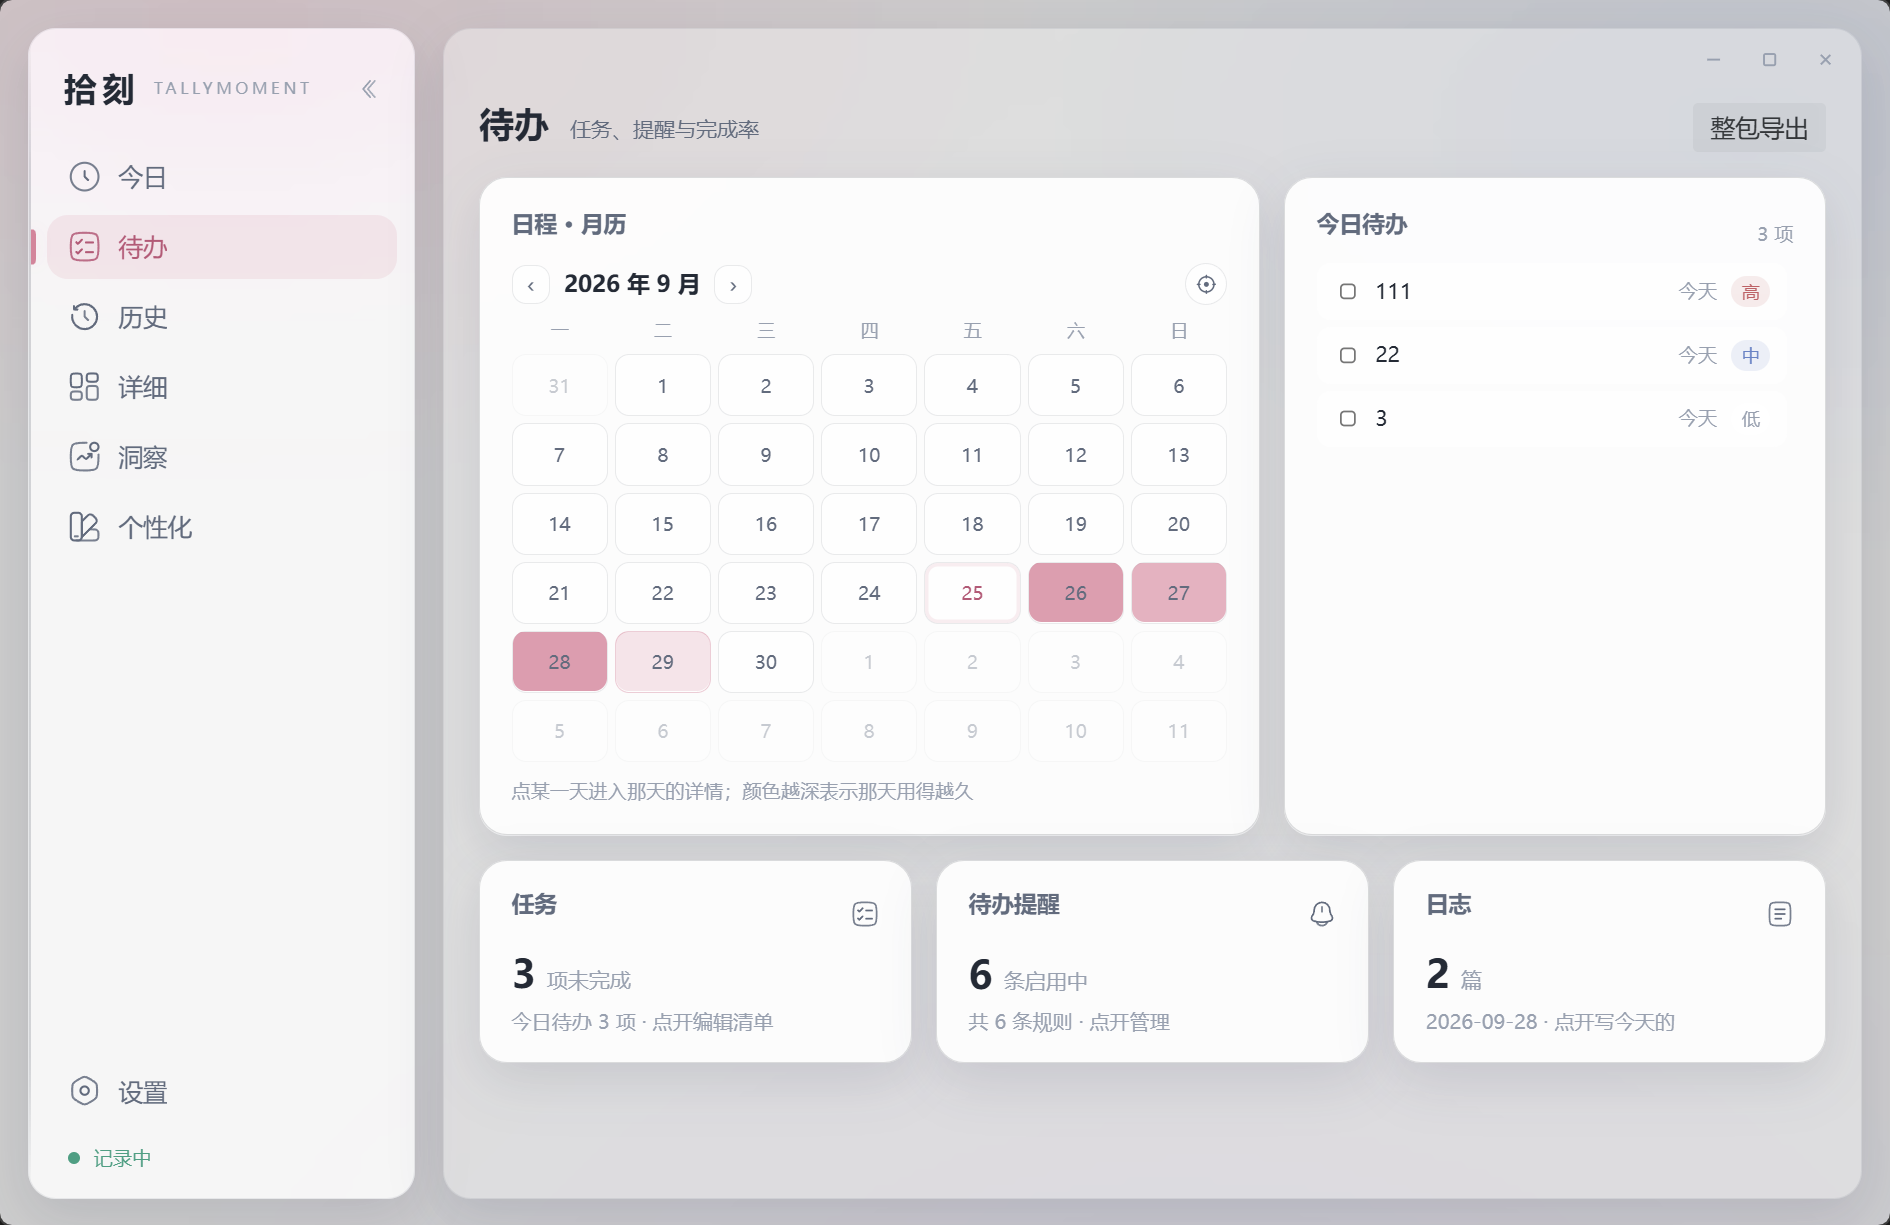
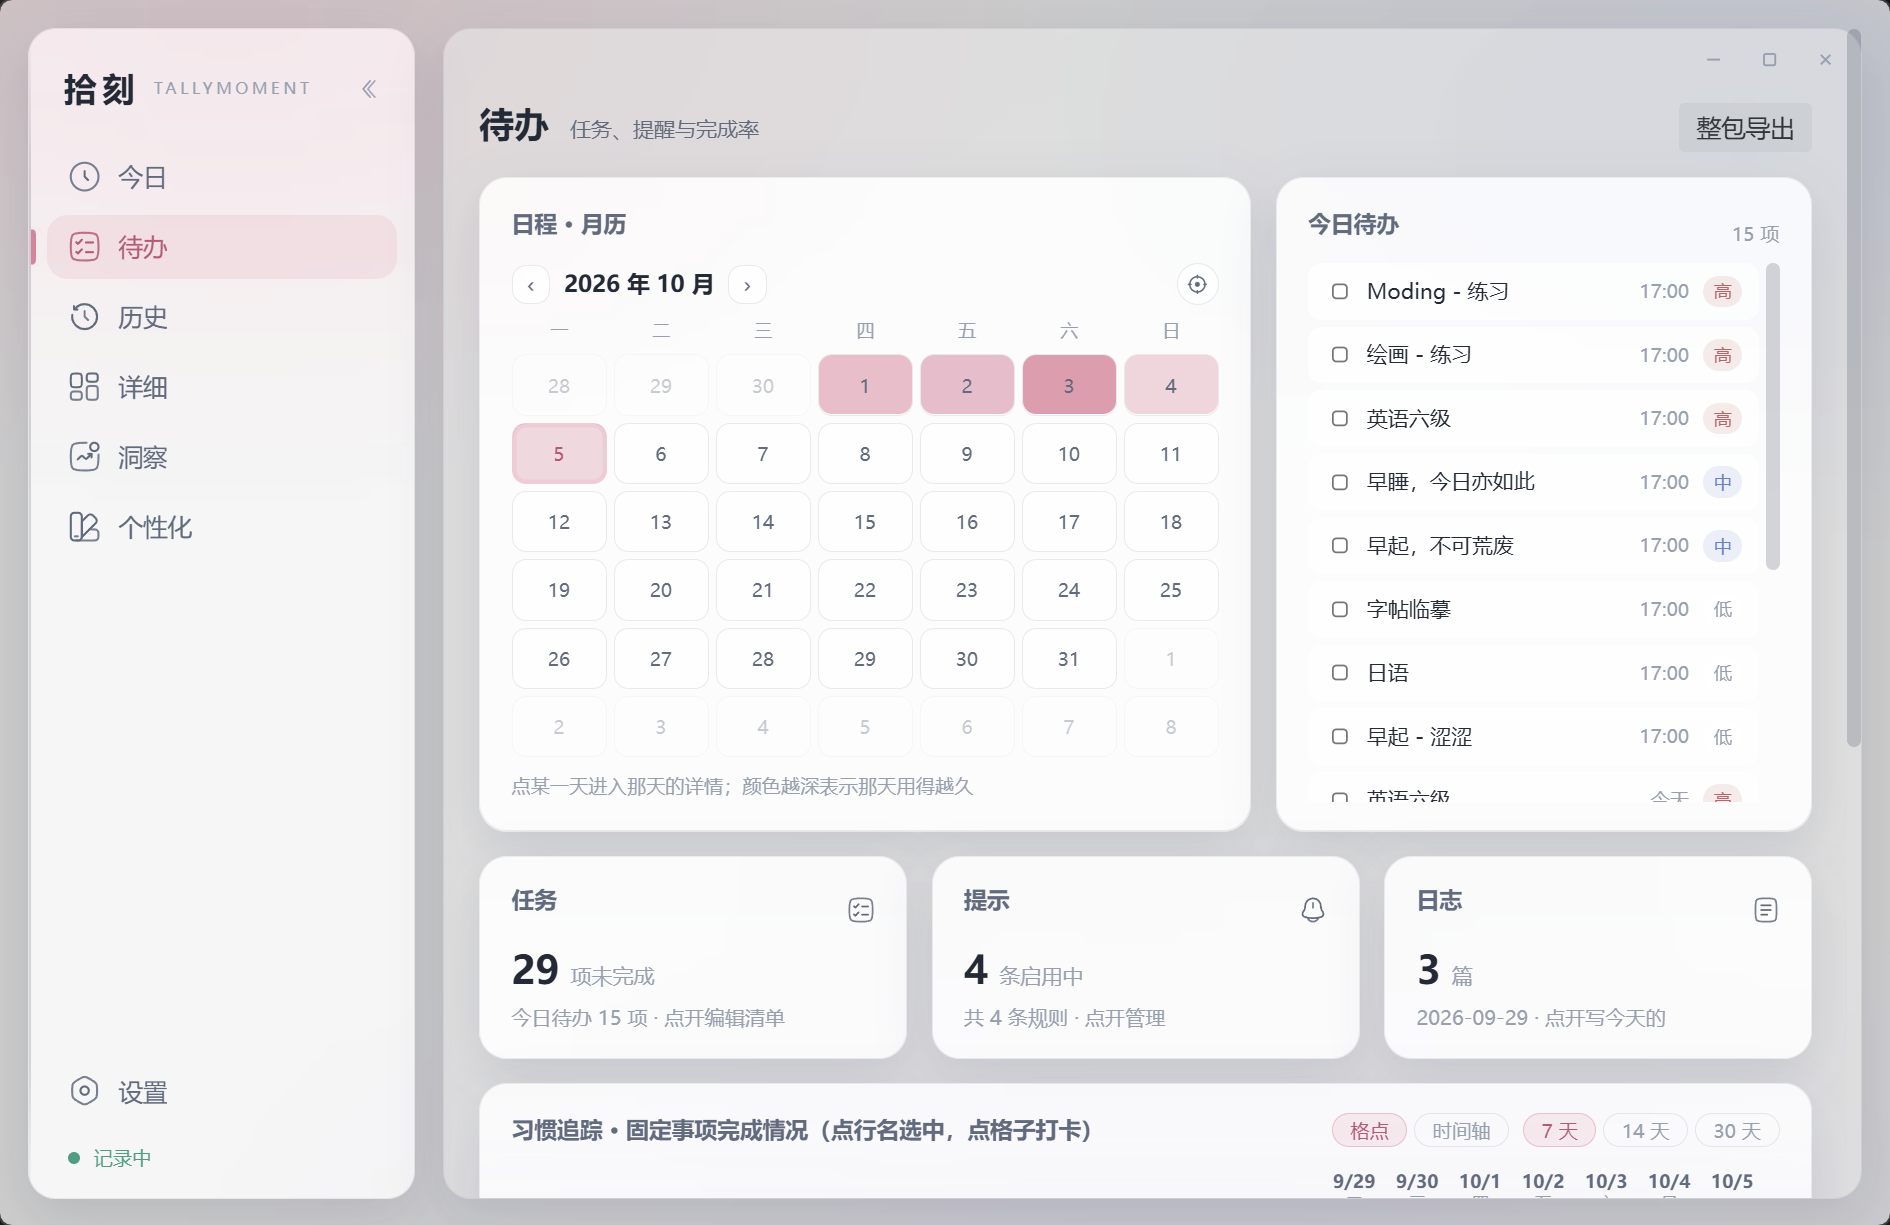
发布 0.3.0: 版本号四处同步 + README 更新(两张预览图替换/修正过时描述/新增原子岛与作者章节) + HANDOFF-3.md 交接文档 + release/ 本地归档目录(已 gitignore)

diff --git a/src/pages/SettingsPage.vue b/src/pages/SettingsPage.vue
@@ -388,7 +388,7 @@ async function bumpFlow(key: "contextApps" | "contextMin" | "activeMin", delta: 
       <h2>关于</h2>
       <div class="rows">
         <p class="kv"><span>名称</span><b>拾刻 · TallyMoment</b></p>
-        <p class="kv"><span>版本</span><b>0.2.0</b></p>
+        <p class="kv"><span>版本</span><b>0.3.0</b></p>
         <p class="kv"><span>数据</span><b>本地优先，不联网、不上传</b></p>
       </div>
       <p class="rd more">

diff --git a/HANDOFF-3.md b/HANDOFF-3.md
@@ -1,0 +1,107 @@
+# HANDOFF-3.md · 拾刻 TallyMoment 交接文档（第四版）
+
+> 生成时间：2026-10-05 ｜ 用途：切换对话/换机器时给新会话与未来的自己的完整上下文
+> 上一版交接见 `HANDOFF-2.md`（截至 0.2.0 发布 / 批次 7 + 原子岛 + 模块重构 + 后台时长）。
+> 本版覆盖其后全部工作：**三路调研、原子岛方案 A（架构重做 + 六轮打磨）、心流判定重写 + 任务绑定、提醒背景图组、待办页布局、软删除、两个致命 bug 的定位修复、代码清理、0.3.0 发布**。
+
+---
+
+## 一、项目与路径（以本版为准）
+
+**拾刻 TallyMoment** — Windows 桌面时间记录与效率回顾工具（本地优先，不联网）。
+三个核心功能：使用时长记录 ｜ 任务督促（待办+固定事项+提醒）｜ 分析与建议（日志+洞察）；另加**原子岛**（常驻悬浮胶囊）。
+
+- **开发仓库（代码，PUBLIC）**：`E:\04_Archives\01_Personal\_ZCode\TallyMoment`
+- **记录仓库（不写代码）**：`E:\04_Archives\01_Personal\# ZCode\拾刻 - TallyMoment`（WORKLOG.md 索引 + logs/ 分册）
+- **远端**：`https://github.com/Frostleaf0929/TallyMoment`（**公开**，默认分支 `master`）
+- **开发数据库**：`src-tauri/target/debug/Data/tallymoment.db`（**绝不能删整个 target/**）
+- **当前版本**：**0.3.0**（package.json / Cargo.toml / tauri.conf.json / 设置页 四处已同步）
+- **本地发布归档**：`release/`（仓库根，已 gitignore；存放各版本安装包副本）
+
+## 二、本轮做了什么（按主题）
+
+### 1. 三路调研（2026-10-01，纯调研）
+- 原子岛流畅度根因：**"每帧改窗口尺寸"是错的架构**——同类流畅项目全部原生渲染（WinIsland=D3D12+DirectComposition；同栈的 NetSpeed-Dynamic 官方承认架构受限、继任者改 C#+SkiaSharp）
+- 心流判定：调研 Rize/RescueTime/Flowtime/Timemator/Clockk + 中断研究 → 规则框架
+- 洞察升级：L1 趋势 → L2 分类评分 → L3 异常规律 → L4 学习版；"计划 vs 实际"是独有维度
+- 记录：`logs/2026-10-01-调研-原子岛流畅度与洞察心流/LOG.md`
+
+### 2. 原子岛方案 A（架构重做，六轮打磨）
+- **固定窗口 392×324 一次创建、永不 resize**；idle/normal/expanded/snap 四态形变全部窗口内 CSS 动画
+- **点击穿透**：光标轮询（120ms）动态 `set_ignore_cursor_events`
+- **灰框根治**：`SetWindowRgn` 把窗口裁成胶囊形状（形状之外系统层面不存在）
+- **标题栏白条根治**：tao 的无边框窗口样式表保留 `WS_CAPTION`，任何 NC 重绘（SetWindowRgn/show）都会把它画出来 → `island::strip_caption` 在每次贴区域与每次 show 之后调用
+- **透明度可调**（40~100%，替代原"材质"档）；**置顶/鼠标穿透开关**；**吸附四边判定**（按位置模式优先选边 + work_area 距离 ≤48px）；**唤回方式**（靠近自动 / 点击）；**个性化卡折叠**
+- 已知遗留（未解决）：吸附的顶/底不触发、侧边唤醒只露一半、底部停靠展开方向——见第七节
+
+### 3. 心流判定重写 + 任务绑定
+- **旧规则"整块切换 ≤3 次"被真实数据证伪**（254 分钟工作段、占比 88%、切换 389 次被误判碎片）
+- **新规则＝上下文一致度**：跨度 ≥ 自适应门槛（下限 15 分钟）&& 活跃占比 ≥ 门槛（默认 80%）&& 前 K 个应用（默认 4）覆盖活跃时间 ≥ 门槛（默认 60%）；切换次数仅展示
+- 参数在〈设置 · 心流判定〉可调（context_apps / context_min / active_min）
+- **任务绑定**：任务 `related_apps`（JSON）；TaskBoard 编辑块可增删（含从任务时间窗的高频应用推荐）；洞察页"心流时段 · 归属任务"，未归属可一键确认并入集合（越用越准）
+
+### 4. 提醒与背景图
+- 提醒卡区域裁剪**已撤销**（tao 白边框防不胜防）→ 回 DWM 圆角
+- **背景图组**：每组 ≤10 张、组数不限、组名可改、组间一键切换；播放**默认顺序循环**，开关切**随机洗牌**（轮内不重复）；缩略图 ✕ 移除；**双击缩略图进全图编辑**（左键拖动 / 滚轮缩放 50~300% / 蒙版实时预览）
+- **渲染口径唯一**：`src/lib/bgStyle.ts` 被编辑器与真实全屏提醒共用（本轮"取景不一致"的结构性根治）
+
+### 5. 其他
+- 待办页两卡等高（**量月历"内容层"高度设到行容器**，绕开 flex 拉伸死循环）；习惯追踪时间轴 30 天日期抽稀；主窗口 16px 外框可拖动（含双击最大化）；任务**软删除**（删除保留完成记录与统计）；设置页作者卡；代码清理（死代码 + 编译警告 22→0）
+
+### 6. 两个致命 bug 的定位与修复（本轮最大教训）
+- **① 主线程自死锁**：sync 命令跑在主线程，而**窗口创建必须由事件循环线程执行**——在命令里同步 `build()` = 等自己 → 全应用假死（表现为所有按钮无反应、洞察卡"分析中"）。由**看门狗**（`[diag]` 行）实测坐实。修复：`reminder_bg_test_show` 与 `island_set_enabled` 的窗口创建移入 `std::thread::spawn`
+- **② 实机取景错误**：实机 `.bgimg`（img）**缺显式宽高** → 浏览器按**原始像素尺寸**渲染（原图大只见左上角、"缩放随机但固定"、原图小露黑区）。修复：`.bgbox`（overflow:hidden）+ `.bgimg { width/height:100% }`
+
+## 三、关键文件与新增
+
+**新增**：`src-tauri/src/island.rs` 大改（方案 A）、`src/lib/bgStyle.ts`（渲染口径唯一）、`island.html` / `src/island.ts`（四态 CSS）、`release/`（本地发布归档，gitignore）
+**重点改动**：`lib.rs`（看门狗 `spawn_watchdog`、`diag_log`、`spawn_cursor_poll` 相关命令、`today_report` 会话快照化）、`reminder.rs`（`show_card` / `show_fullscreen` 线程约定）、`storage.rs`（背景图组/软删除/心流参数）、`insights.rs`（`FlowParams` + 上下文一致度）、`FullscreenReminder.vue`、`PersonalizePage.vue`、`TaskBoard.vue`、`InsightsPage.vue`、`TodoPage.vue`、`SettingsPage.vue`
+
+## 四、验证状态
+
+- `cargo test` **27 通过 + 2 忽略**；`pnpm build` 零错误；**Rust 编译警告 0**
+- 实机验收通过：原子岛流畅度/无灰框/无标题栏白条/透明度/穿透/置顶；心流划分正确（洞察页可见）；背景图组与全图编辑；待办页；试看不再卡死
+- **未验证/遗留**：吸附三个问题（第七节）；心流参数待长期使用调优
+
+## 五、已知的坑（新会话必读，按重要性）
+
+1. **绝不在命令（主线程）里同步创建窗口**——用 `std::thread::spawn`（tao/tauri 窗口创建须事件循环线程执行；在主线程同步 build = 自等待死锁，全应用假死）
+2. **看门狗与 `[diag]` 埋点**：卡死时终端自动打印结论行（主线程阻塞 / Db 锁被占）；**前端 console 在 dev 终端不可见 → 用 `diag_log` 命令回传**
+3. **CSS 替换元素尺寸**：`<img>` 必须有显式 width/height，否则按**固有像素尺寸**渲染（取景/黑区类怪象优先查这里）
+4. **渲染口径唯一**：背景图的展示样式只走 `src/lib/bgStyle.ts`，编辑器与实机共用（禁止两处各写一份）
+5. **`v-show` 页面组件必须单根节点**：Teleport 必须放在根 div **内部**，否则隐藏失效（本轮"五页面粘连个性化页"事故）
+6. **改完文件立即 grep 验证落盘**：写入丢失真实发生过（`.bgimg` 的 CSS 修复曾丢失一轮）
+7. **区域裁剪（SetWindowRgn）仅用于原子岛**；提醒窗用 DWM 圆角（tao 的 WS_CAPTION 会在 NC 重绘时带出白边框）
+8. **判断命令成败别用管道**：`out=$(cmd 2>&1); rc=$?`（管道退出码是 tail 的）
+9. **目录迁移后**：不仅清 `target/debug/build`，**release 打包前也要清 `target/release/build`**（含旧绝对路径 → 打包失败 "failed to read plugin permissions"）
+10. **锁**：tracker 每秒"session→Db"双持；**持锁期间绝不做窗口/托盘/emit 等会派发到主线程的操作**；`today_report` 已改快照式
+11. **Mutex 不可重入**：持 `db.0.lock()` 时绝不调用会再取锁的函数（island::show 等）
+12. **dev 环境**：改 Rust 后手动重启 `pnpm tauri dev`；大批量改动后热重载会进入坏状态（现象类似假死，**重启即好**——但本轮①是真死锁，区别看 `[diag]`）
+13. **写文件**：bash heredoc 单次别超 ~10KB（会静默截断）；优先用 Write/Edit 工具
+14. **多屏/缩放**：本机 2560×1440 @175%（逻辑 1463×823）；编辑层虚拟屏幕取 **primaryMonitor** 宽高比（与全屏提醒同源）
+
+## 六、安全红线（公开仓库）
+
+1. `logs/`、`WORKLOG.md`、`*.db`、`Data/`、`.dev-data-backup*/`、`target/`、`release/` **永不提交**（.gitignore 已配；`git add -A` 仍是危险动作，**提交前必须 `git status` 逐文件确认**）
+2. 发布前体检：无密钥、无真实数据、无本机绝对路径
+3. 必停清单仍有效（删除/覆盖、工作区外写入、外发、装包、凭据）；**git push / GitHub Release 需用户明确授权**（本轮已授权）
+
+## 七、下一步（优先级）
+
+1. **原子岛吸附三个遗留**（用户明确要修，需 dev 控制台 `[island]` 日志）：顶/底不触发吸附；侧边唤醒只露一半（不回全）；底部停靠时展开面板应向上生长
+2. 心流参数按长期使用数据调优（阈值已可调，缺真实体感反馈）
+3. 洞察 L1/L2 落地（趋势对比 + 分类评分 + 计划 vs 实际）
+4. 详情页导出图片（仅登记想法，未动）
+5. 发布相关：MSI（WiX 下载超时，deferred）、安装包签名、ICO 精修
+
+## 八、待用户决定
+
+- 版本号 0.3.0 的定位是否合适（本轮为功能级升级）
+- 吸附遗留问题的优先次序
+- 洞察升级从哪一级开始做
+
+## 九、记录位置
+
+- 索引：`E:\04_Archives\01_Personal\# ZCode\拾刻 - TallyMoment\WORKLOG.md`
+- 本轮分册：`logs/2026-10-01-调研-原子岛流畅度与洞察心流/`、`logs/2026-10-01-原子岛方案A-固定窗口与DOM动画/`、`logs/2026-10-01-心流判定改造-第一步无任务版/`、`logs/2026-10-03-反馈修复-白边与待办记录/`
+- 本文件：开发仓库根 `HANDOFF-3.md`

diff --git a/README.md b/README.md
@@ -41,22 +41,38 @@
 
 ### 2. 任务督促 —— 待办、固定事项与到点提醒
 
-- **任务看板**：重要度（高/中/低）、到期时间、完成勾选；双击就地改名
+- **任务看板**：重要度（高/中/低）、到期时间、完成勾选；行尾「编辑」可改内容、提醒方式与**相关应用**（相关应用用于心流时段自动归属）
 - **固定事项**：日 / 周 / 月 / 年化，自动为"今天该出现"的模板生成当日实例（幂等，不会重复生成）
 - **每日任务追踪**：可记录"开始做"的时间，完成时自动算出**完成用时**（开始→完成优先，退回创建→完成）
-- **到点提醒**：规则支持**时间间隔**与**每日定点**两种触发方式，提醒方式可选
+- **删除保留记录**：删除只把任务移出列表，历史完成记录与统计照常保留（完成率、用时分布不受影响）
+- **到点提醒**：规则支持**时间间隔**与**每日定点**两种触发方式；**每个任务还能单独设置**到期提醒方式（卡片 / 全屏 / 关闭）以及"进行中每 N 分钟弹卡确认"
   - **右下角卡片**：可定制的停留时长 / 卡片常驻
-  - **全屏提醒**：铺满屏幕的休息提示页（分层柔光 + 呼吸动效 + 大号提示语），支持**自定义背景图**
+  - **全屏提醒**：铺满屏幕的休息提示页（分层柔光 + 呼吸动效 + 大号提示语）
+  - **背景图组**：自定义背景图按组管理（每组最多 10 张，组名可改、组间一键切换），播放支持**顺序**（从左到右循环）与**随机**（洗牌轮换、一轮内不重复）；**双击缩略图进全图编辑**——拖动调位置、滚轮缩放、实时预览蒙版，编辑器里看到的取景就是弹窗时的样子
 - **导入导出**：任务用 **Markdown**（`- [ ]` 语法，Obsidian / Notion 直接打开，兼容 `*`/`+` 符号与 Tasks 插件的 `📅`/⏫ 写法）；提醒规则用 **JSON**（结构化字段完整回环）
 
 ### 3. 分析与建议 —— 把数据变成结论
 
 - **每日日志**：Markdown 正文 + 图片附件，**块式编辑**（标题/正文/待办/列表/引用/分割线/图片块，块可上下移动、图片可选宽度），导出为标准 Markdown（带 front-matter）
 - **洞察页**：
-  - 专注块归并与**心流 / 专注 / 碎片**状态推断（本地规则，不上传）
+  - 专注块归并与**心流 / 专注 / 碎片**状态推断（本地规则，不上传）：心流判定看**上下文一致度**——一段时间里头部若干应用覆盖的活跃时间占比，加上活跃占比与时长门槛，**写代码 / 查资料 / 记笔记这类多应用协同不会被误判成碎片**
+  - **心流时段归属任务**：按任务的「相关应用」自动匹配；未归属的时段一键确认后并入该任务的应用集合，**越用越准**
   - 今日各小时状态堆叠、近 14 天作息分布、使用频率趋势
   - **分析 + 建议**双段式结论：先说数据说了什么，再说可以怎么做
+  - 判定参数在〈设置 · 心流判定〉可调（上下文应用数 / 一致度门槛 / 活跃占比门槛）
 - **完成率与用时分布**：今日完成、本周完成率、按时完成率、平均完成用时，以及完成用时分布
+
+---
+
+## 原子岛（常驻悬浮胶囊）
+
+一颗挂在屏幕边缘的小胶囊，不切窗口就知道现在在干什么：
+
+- **三态交互**：平时缩小成小条 → 悬停展开完整胶囊（当前专注 / 下个任务倒计时 / 今日完成数，模块可增删排序）→ 点击展开待办列表并直接勾完成
+- **位置与形态**：顶部居中 / 靠左 / 靠右，或任意拖动（位置自动记忆）；隐藏形态可选**缩小胶囊**或**靠边吸附**——吸附会自动判断离哪条屏幕边最近（上/下/左/右）只露一条边，靠近即滑回（也可改为"点击唤回"）
+- **外观可调**：终末地配色或跟随主程序强调色，透明度 40~100%
+- **两个开关**：窗口置顶（默认开）、鼠标穿透（纯展示、不挡点击）
+- **顺滑的代价与做法**：窗口"一次创建、永不改变尺寸"，所有形态变化都在窗口内由 CSS 动画完成——避免反复改窗口尺寸带来的卡顿
 
 ---
 
@@ -84,6 +100,10 @@ pnpm tauri build   # 打包（NSIS 安装包 / MSI / 免安装 exe）
 - 所有记录只写本机 `Data/` 目录；**没有任何联网代码**，也不含遥测
 - 数据可整体导出：JSON（换机恢复）、Tai 对齐的 `data.db` + CSV + xlsx（可导入原版 Tai）、任务 Markdown、日志 Markdown + 图片
 - 崩溃安全：SQLite WAL + `synchronous=FULL`，已落库的数据不会因强杀损坏
+
+## 作者
+
+- GitHub：[@Frostleaf0929](https://github.com/Frostleaf0929) —— 问题反馈与版本发布都在这里
 
 ## 鸣谢与来源
 
